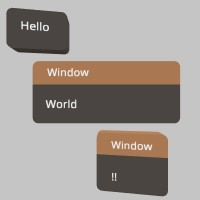
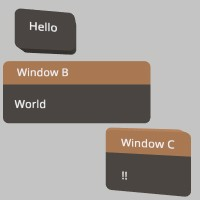
PR 1277 1278 add Ui::window_begin_auto new example ui2.rs

diff --git a/src/ui.rs b/src/ui.rs
@@ -1131,10 +1131,10 @@ unsafe extern "C" {
         allowed_gestures: UiGesture,
     ) -> Bool32T;
     pub fn ui_handle_end();
-    pub fn ui_window_begin(text: *const c_char, pose: *mut Pose, size: Vec2, window_type: UiWin, move_type: UiMove);
+    pub fn ui_window_begin(text: *const c_char, opt_pose: *mut Pose, size: Vec2, window_type: UiWin, move_type: UiMove);
     pub fn ui_window_begin_16(
         text: *const c_ushort,
-        pose: *mut Pose,
+        opt_pose: *mut Pose,
         size: Vec2,
         window_type: UiWin,
         move_type: UiMove,
@@ -4659,8 +4659,8 @@ impl Ui {
     ///   hierarchy.
     /// * `pose` - The pose state for the window! If showHeader is true, the user will be able to grab this header and
     ///   move it around.
-    /// * `size` - Physical size of the window! If None, then the size on that axis will be auto-
-    ///   calculated based on the content provided during the previous frame.
+    /// * `size` - Physical size of the window! If either dimension is 0, then the size on that axis will be auto-
+    ///   calculated based on the content provided during the previous frame. None fills both dimensions automatically.
     /// * `windowType` - Describes how the window should be drawn, use a header, a body, neither, or both? None is
     ///   UiWin::Normal
     /// * `moveType` - Describes how the window will move when dragged around. None is UiMove::FaceUser
@@ -4674,21 +4674,21 @@ impl Ui {
     /// let mut window_pose1 = Pose::new(
     ///     [-0.07, 0.115, 0.89], Some([0.0, 185.0, 0.0].into()));
     /// let mut window_pose2 = Pose::new(
-    ///     [-0.05, 0.02, 0.89], Some([0.0, 180.0, 0.0].into()));
+    ///     [-0.03, 0.02, 0.89], Some([0.0, 180.0, 0.0].into()));
     /// let mut window_pose3 = Pose::new(
-    ///     [0.09, -0.075, 0.89], Some([0.0, 175.0, 0.0].into()));
+    ///     [0.06, -0.07, 0.89], Some([0.0, 175.0, 0.0].into()));
     ///
     /// filename_scr = "screenshots/ui_window.jpeg";
     /// test_screenshot!( // !!!! Get a proper main loop !!!!
-    ///     Ui::window_begin("Window", &mut window_pose1, None, Some(UiWin::Body), None);
+    ///     Ui::window_begin("Window A", &mut window_pose1, None, Some(UiWin::Body), None);
     ///     Ui::label("Hello", None, true);
     ///     Ui::window_end();
     ///
-    ///     Ui::window_begin("Window", &mut window_pose2, Some([0.19, 0.05].into()), None, None);
+    ///     Ui::window_begin("Window B", &mut window_pose2, Some([0.19, 0.05].into()), None, None);
     ///     Ui::label("World", None, true);
     ///     Ui::window_end();
     ///
-    ///     Ui::window_begin("Window", &mut window_pose3, None, None, Some(UiMove::Exact));
+    ///     Ui::window_begin("Window C", &mut window_pose3, None, None, Some(UiMove::Exact));
     ///     Ui::label("!!", None, true);
     ///     Ui::window_end();
     /// );
@@ -4696,7 +4696,7 @@ impl Ui {
     /// <img src="https://raw.githubusercontent.com/mvvvv/StereoKit-rust/refs/heads/master/screenshots/ui_window.jpeg" alt="screenshot" width="200">
     pub fn window_begin(
         text: impl AsRef<str>,
-        pose: &mut Pose,
+        opt_pose: &mut Pose,
         size: Option<Vec2>,
         window_type: Option<UiWin>,
         move_type: Option<UiMove>,
@@ -4705,7 +4705,48 @@ impl Ui {
         let window_type = window_type.unwrap_or(UiWin::Normal);
         let move_type = move_type.unwrap_or(UiMove::FaceUser);
         let size = size.unwrap_or(Vec2::ZERO);
-        unsafe { ui_window_begin(cstr.as_ptr(), pose, size, window_type, move_type) }
+        unsafe { ui_window_begin(cstr.as_ptr(), opt_pose, size, window_type, move_type) }
+    }
+
+    /// Begins a new window! This will push an automatically determined pose onto the transform stack, and all UI
+    /// elements will be relative to that new pose. The pose is actually the top-center of the window. Must be finished
+    /// with a call to Ui::window_end().
+    /// If size is None the size will be auto-calculated based on the content provided during the previous frame.
+    /// <https://stereokit.net/Pages/StereoKit/UI/WindowBegin.html>
+    /// * `text` - Text to display on the window title and id for tracking element state. MUST be unique within current
+    ///   hierarchy.
+    /// * `size` - Physical size of the window! If either dimension is 0, then the size on that axis will be auto-
+    ///   calculated based on the content provided during the previous frame. None fills both dimensions automatically.
+    /// * `windowType` - Describes how the window should be drawn, use a header, a body, neither, or both? None is
+    ///   UiWin::Normal
+    /// * `moveType` - Describes how the window will move when dragged around. None is UiMove::FaceUser
+    ///
+    /// see also [`ui_window_begin`]
+    /// ### Examples
+    /// ```
+    /// # stereokit_rust::test_init_sk!(); // !!!! Get a proper way to initialize sk !!!!
+    /// use stereokit_rust::{ui::{Ui, UiMove, UiWin}, maths::Vec2};
+    ///
+    /// fov_scr = 10.0;
+    /// filename_scr = "screenshots/ui_window_auto.jpeg";
+    /// test_screenshot!( // !!!! Get a proper main loop !!!!
+    ///     Ui::window_begin_auto("Window very very large", None, None, None);
+    ///     Ui::label("Hello", None, true);
+    ///     Ui::window_end();
+    /// );
+    /// ```
+    /// <img src="https://raw.githubusercontent.com/mvvvv/StereoKit-rust/refs/heads/master/screenshots/ui_window_auto.jpeg" alt="screenshot" width="200">
+    pub fn window_begin_auto(
+        text: impl AsRef<str>,
+        size: Option<Vec2>,
+        window_type: Option<UiWin>,
+        move_type: Option<UiMove>,
+    ) {
+        let cstr = CString::new(text.as_ref()).unwrap();
+        let window_type = window_type.unwrap_or(UiWin::Normal);
+        let move_type = move_type.unwrap_or(UiMove::FaceUser);
+        let size = size.unwrap_or(Vec2::ZERO);
+        unsafe { ui_window_begin(cstr.as_ptr(), null_mut(), size, window_type, move_type) }
     }
 
     /// Finishes a window! Must be called after Ui::window_begin() and all elements have been drawn.

diff --git a/examples/demos/ui2.rs b/examples/demos/ui2.rs
@@ -1,0 +1,129 @@
+use stereokit_rust::{
+    font::Font,
+    maths::{Matrix, Pose, Quat, Vec3},
+    prelude::*,
+    system::{Hierarchy, Text, TextStyle},
+    ui::Ui,
+    util::named_colors::RED,
+};
+
+/// Copycat of the example https://github.com/StereoKit/StereoKit/blob/develop/Examples/StereoKitTest/Tests/TestWindowPoseOverride.cs
+#[derive(IStepper)]
+pub struct Ui2 {
+    id: StepperId,
+    sk_info: Option<Rc<RefCell<SkInfo>>>,
+
+    /// Pose that can be modified by UI interaction, then constrained
+    pub modifiable_pose: Pose,
+
+    pub text: String,
+    pub text_style: TextStyle,
+    pub transform: Matrix,
+}
+
+unsafe impl Send for Ui2 {}
+
+impl Default for Ui2 {
+    fn default() -> Self {
+        Self {
+            id: "Ui2".to_string(),
+            sk_info: None,
+
+            modifiable_pose: Pose::new(Vec3::new(0.1, 1.5, -0.5), Some(Quat::look_dir(Vec3::new(0.0, 1.0, 1.0)))),
+
+            text: "Ui2".to_owned(),
+            text_style: Text::make_style(Font::default(), 0.3, RED),
+            transform: Matrix::t_r((Vec3::NEG_Z * 2.5) + Vec3::Y, Quat::from_angles(0.0, 180.0, 0.0)),
+        }
+    }
+}
+
+impl Ui2 {
+    /// Called from IStepper::initialize here you can abort the initialization by returning false
+    fn start(&mut self) -> bool {
+        true
+    }
+
+    /// Called from IStepper::step, here you can check the event report
+    fn check_event(&mut self, _id: &StepperId, _key: &str, _value: &str) {}
+
+    /// Called from IStepper::step after check_event, here you can draw your UI and scene
+    fn draw(&mut self, token: &MainThreadToken) {
+        // Window 1: Modified Pose
+        // With this window, we're adding a constraint to a normal stateful
+        // pose. This is a common scenario, where the developer wants a gravity
+        // or floor oriented Handle/Window, like some sort of house plant
+        // hologram. We do this by quashing out the X and Z rotation of the
+        // Pose's orientation, and renormalizing it to make it a valid rotation.
+        Ui::window_begin("Modified Pose", &mut self.modifiable_pose, None, None, None);
+
+        // Pop the hierarchy to apply custom transformations
+        Hierarchy::pop(token);
+
+        // Quash X and Z rotation to constrain the pose
+        let mut constrained_orientation = self.modifiable_pose.orientation;
+        constrained_orientation.x = 0.0;
+        constrained_orientation.z = 0.0;
+        constrained_orientation.normalize();
+
+        // Update the pose with constrained orientation
+        let constrained_pose = Pose::new(self.modifiable_pose.position, Some(constrained_orientation));
+
+        // Push the constrained pose back to hierarchy
+        Hierarchy::push(token, Matrix::from(constrained_pose), None);
+
+        Ui::text(
+            "We're quashing rotation of this Window's pose on the X and Z axes after doing regular handle logic.",
+            None,
+            None,
+            None,
+            None,
+            None,
+            None,
+        );
+
+        Ui::window_end();
+
+        // Window 2: Override Pose
+        // With this window, we're completely overriding the pose. Detection of
+        // interaction always happens with the initial pose (it has to), but
+        // rendering happens completely using the override pose. This means
+        // that this window will still be interactive from its _original_
+        // location, despite not being visible there! This is an unusual
+        // circumstance and not something we need to fix, usually the final
+        // pose will be fed back in as the initial pose on the start of the
+        // next frame.
+        let mut override_pose = Pose::new(Vec3::new(-0.1, 1.0, -0.5), Some(Quat::look_dir(Vec3::new(1.0, 0.0, 0.0))));
+
+        Ui::window_begin("Override Pose", &mut override_pose, None, None, None);
+
+        // Pop the hierarchy to completely override the pose
+        Hierarchy::pop(token);
+
+        // Push a completely different pose for rendering
+        let rendering_pose = Pose::new(Vec3::new(-0.1, 1.3, -0.5), Some(Quat::look_dir(Vec3::new(0.0, 0.0, 1.0))));
+        Hierarchy::push(token, Matrix::from(rendering_pose), None);
+
+        Ui::text(
+            "We're completely overriding this Window's pose to prove that even extreme modifications to the Window's pose will still properly apply.",
+            None,
+            None,
+            None,
+            None,
+            None,
+            None,
+        );
+
+        Ui::window_end();
+
+        // Window 3: Pose zero
+        // this will push an automatically determined pose onto the transform stack
+        // and keep its position if you relaunch the demo
+        Ui::window_begin_auto("Pose Zero", None, None, None);
+        Ui::text("We memorize position", None, None, None, None, None, None);
+        Ui::window_end();
+
+        // Display the demo title text
+        Text::add_at(token, &self.text, self.transform, Some(self.text_style), None, None, None, None, None, None);
+    }
+}

diff --git a/examples/demos/ui1.rs b/examples/demos/ui1.rs
@@ -1,7 +1,7 @@
 use stereokit_rust::{
     font::Font,
     material::Material,
-    maths::{Matrix, Pose, Quat, Vec2, Vec3, units::CM},
+    maths::{Matrix, Quat, Vec2, Vec3, units::CM},
     mesh::Mesh,
     prelude::*,
     system::{BtnState, Pivot, Text, TextStyle},
@@ -39,7 +39,7 @@ const LATHE_BUTTON: [UiLathePt; 6] = [
 pub struct Ui1 {
     id: StepperId,
     sk_info: Option<Rc<RefCell<SkInfo>>>,
-    pub window_demo_pose: Pose,
+
     pub demo_win_width: f32,
     pub ui_material: Material,
     pub id_slider: String,
@@ -62,10 +62,6 @@ impl Default for Ui1 {
             transform: Matrix::t_r(
                 (Vec3::NEG_Z * 2.5) + Vec3::Y, //
                 Quat::from_angles(0.0, 180.0, 0.0),
-            ),
-            window_demo_pose: Pose::new(
-                Vec3::new(0.0, 1.5, -1.3), //
-                Some(Quat::look_dir(Vec3::new(1.0, 0.0, 1.0))),
             ),
             demo_win_width: 36.0 * CM,
             ui_material: Material::ui().copy(),
@@ -107,13 +103,7 @@ impl Ui1 {
             Ui::set_element_visual(UiVisual::ExtraSlot03, mesh, None, None);
         }
 
-        Ui::window_begin(
-            "Ui elements",
-            &mut self.window_demo_pose,
-            Some(Vec2::new(self.demo_win_width, 0.0)),
-            None,
-            None,
-        );
+        Ui::window_begin_auto("Ui elements", Some(Vec2::new(self.demo_win_width, 0.0)), None, None);
 
         self.custom_button_mesh(token, "Custom Button Mesh", UiVisual::ExtraSlot02);
         self.custom_button_element(token, "Custom Button Element");

diff --git a/src/tex.rs b/src/tex.rs
@@ -2695,7 +2695,7 @@ impl SHCubemap {
     /// let sh_cubemap = SHCubemap::get_rendered_sky();
     ///
     /// let tex = sh_cubemap.tex;
-    /// assert_eq!(tex.get_id(), "default/cubemap");
+    /// //Not at first step : assert_eq!(tex.get_id(), "default/cubemap");
     /// ```
     pub fn get_rendered_sky() -> SHCubemap {
         let skytex_ptr = unsafe { render_get_skytex() };
@@ -2729,7 +2729,7 @@ impl SHCubemap {
     /// let sh_cubemap = SHCubemap::get_rendered_sky();
     ///
     /// let cubemap = sh_cubemap.clone_ref();
-    /// assert_eq!(cubemap.tex.get_id(), "default/cubemap");
+    /// //Not at first step: assert_eq!(cubemap.tex.get_id(), "default/cubemap");
     /// ```
     pub fn clone_ref(&self) -> SHCubemap {
         SHCubemap { sh: self.sh, tex: self.tex.clone_ref() }
@@ -2772,8 +2772,8 @@ impl SHCubemap {
     /// let sh_cubemap = SHCubemap::get_rendered_sky();
     ///
     /// let (sh, tex) = sh_cubemap.get();
-    /// assert_eq!(tex.get_id(), "default/cubemap");
-    /// assert_eq!(sh.get_dominent_light_direction(), Vec3 { x: -0.20119436, y: -0.92318374, z: -0.32749438 });
+    /// //Not at first step: assert_eq!(tex.get_id(), "default/cubemap");
+    /// //Not at first step: assert_eq!(sh.get_dominent_light_direction(), Vec3 { x: -0.20119436, y: -0.92318374, z: -0.32749438 });
     /// ```
     pub fn get(&self) -> (SphericalHarmonics, Tex) {
         (self.sh, Tex(NonNull::new(unsafe { tex_find(tex_get_id(self.tex.0.as_ptr())) }).unwrap()))

diff --git a/examples/demos/mod.rs b/examples/demos/mod.rs
@@ -31,12 +31,13 @@ pub mod text2;
 pub mod threads1;
 pub mod threads2;
 pub mod ui1;
+pub mod ui2;
 
 use self::{
     a_stepper::AStepper, anchor1::Anchor1, anim1::Anim1, asset1::Asset1, b_stepper::BStepper, biplane1::Biplane1,
     c_stepper::CStepper, font1::Font1, interactor1::Interactor1, layers1::Layers1, math1::Math1,
     render_list1::RenderList1, shaders1::Shader1, shadows1::Shadows1, sprite1::Sprite1, tex1::Tex1, text1::Text1,
-    text2::Text2, threads1::Threads1, threads2::Threads2, ui1::Ui1,
+    text2::Text2, threads1::Threads1, threads2::Threads2, ui1::Ui1, ui2::Ui2,
 };
 
 pub struct Test {
@@ -102,6 +103,10 @@ impl Test {
             Test::new("Ui1", |sk| {
                 sk.send_event(StepperAction::add_default::<Ui1>("Ui1"));
                 "Ui1".to_string()
+            }),
+            Test::new("Ui2", |sk| {
+                sk.send_event(StepperAction::add_default::<Ui2>("Ui2"));
+                "Ui2".to_string()
             }),
             Test::new("Input1", |sk| {
                 sk.send_event(StepperAction::add_default::<Input1>("Input1"));

diff --git a/src/maths.rs b/src/maths.rs
@@ -5727,6 +5727,21 @@ impl Pose {
     pub fn get_up(&self) -> Vec3 {
         self.orientation.mul_vec3(Vec3::UP)
     }
+
+    /// Check if this Pose is exactly equal to Pose::ZERO
+    ///
+    /// ### Examples
+    /// ```
+    /// use stereokit_rust::maths::{Vec3, Pose};
+    /// let pose1 = Pose::ZERO;
+    /// let pose2 = Pose::IDENTITY;
+    /// assert!(pose1.is_zero());
+    /// assert!(!pose2.is_zero());
+    /// ```
+    #[inline]
+    pub fn is_zero(&self) -> bool {
+        self.orientation.x == 0.0 && self.orientation.y == 0.0 && self.orientation.z == 0.0 && self.orientation.w == 0.0
+    }
 }
 
 impl Display for Pose {
